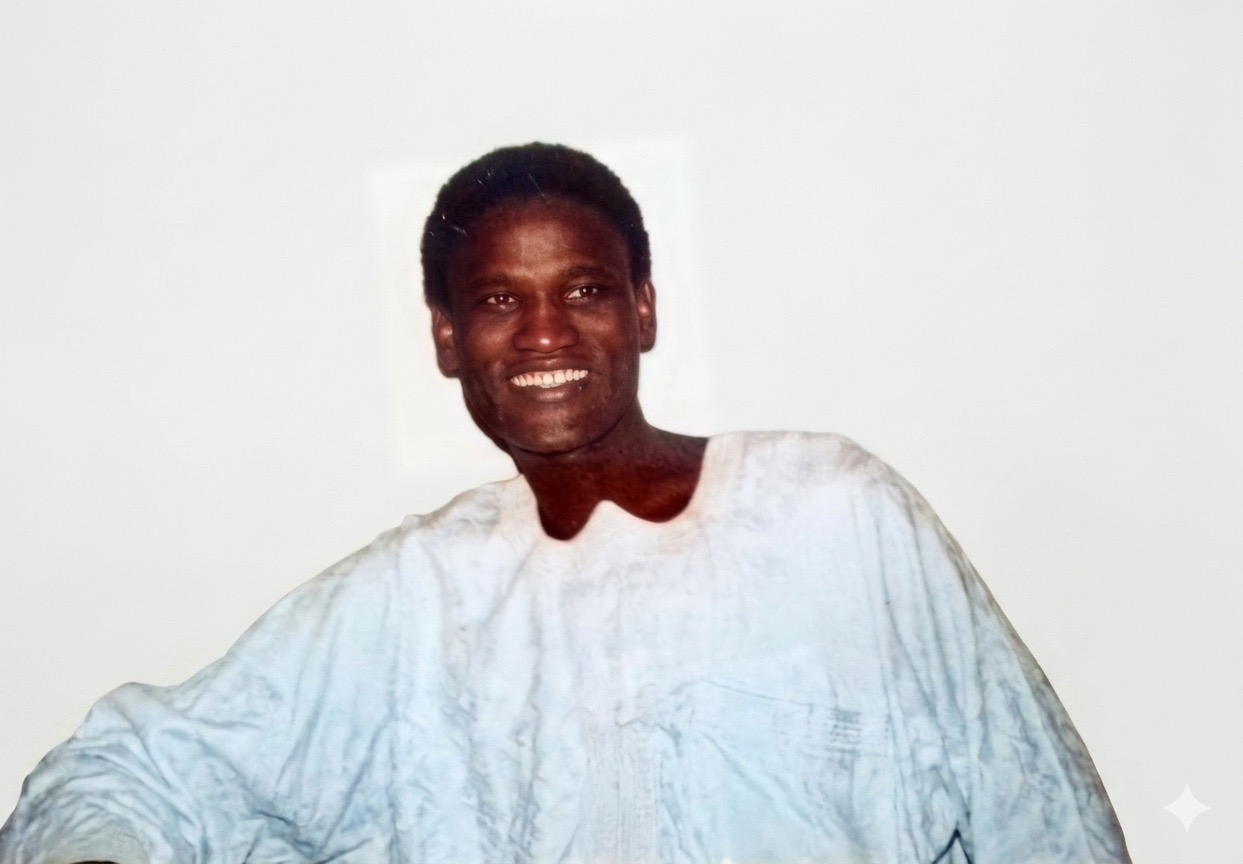
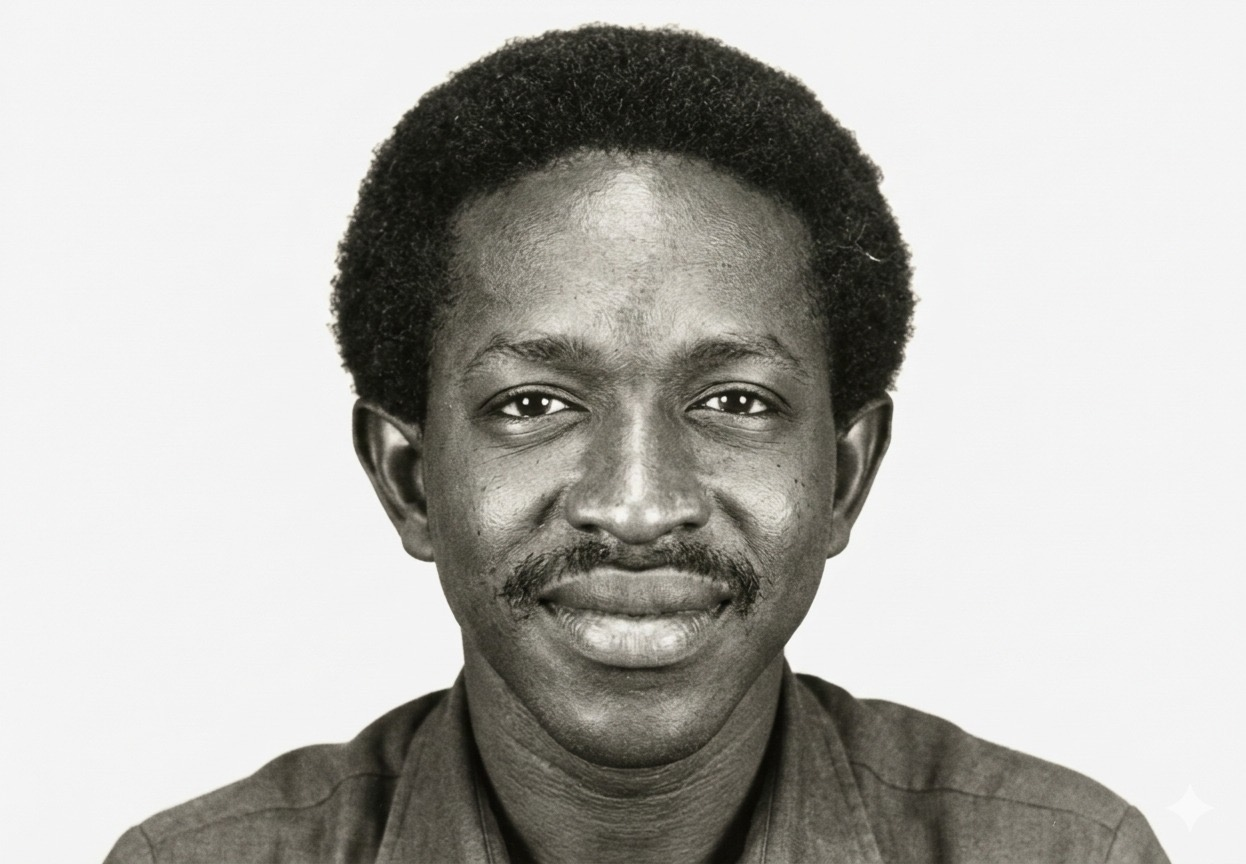
fix: correct cofounder photo pairing and add masthead portraits
Swap assane-samb.jpg / birane-gaye.jpg on disk so Notre histoire captions match the right faces; reuse the same assets flanking the header logo.

diff --git a/src/components/Header.tsx b/src/components/Header.tsx
@@ -1,5 +1,6 @@
 "use client";
 
+import Image from "next/image";
 import Link from "next/link";
 import { useEffect, useState } from "react";
 import { Logo } from "./Logo";
@@ -98,7 +99,15 @@ export function Header() {
           <div className="rule-double-inner" />
         </div>
 
-        <div className="flex items-center justify-center gap-3 py-3 sm:py-4">
+        <div className="flex items-center justify-center gap-2 sm:gap-4 py-3 sm:py-4">
+          <Image
+            src="/about/assane-samb.jpg"
+            alt={t.histoire.assaneName}
+            width={64}
+            height={64}
+            className="h-12 w-12 sm:h-16 sm:w-16 rounded-full object-cover border border-rule-strong shrink-0"
+            sizes="(max-width: 640px) 48px, 64px"
+          />
           <Link
             href="/"
             className="flex flex-col items-center text-center group min-w-0"
@@ -109,6 +118,14 @@ export function Header() {
               « {t.motto} »
             </p>
           </Link>
+          <Image
+            src="/about/birane-gaye.jpg"
+            alt={t.histoire.biraneName}
+            width={64}
+            height={64}
+            className="h-12 w-12 sm:h-16 sm:w-16 rounded-full object-cover border border-rule-strong shrink-0"
+            sizes="(max-width: 640px) 48px, 64px"
+          />
         </div>
 
         <div className="rule-double mb-0">
